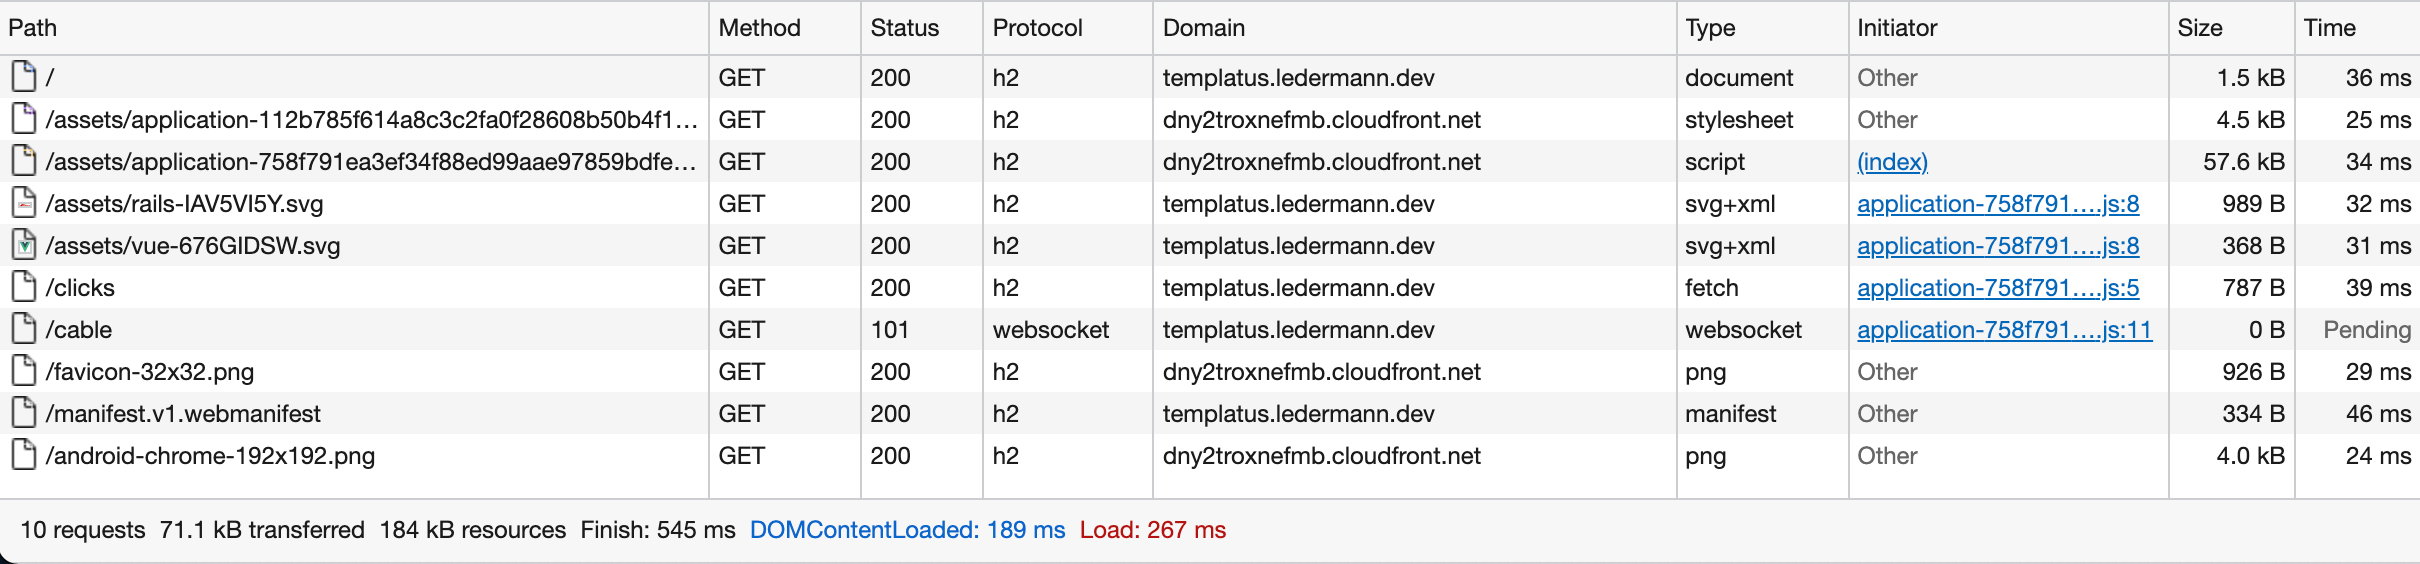
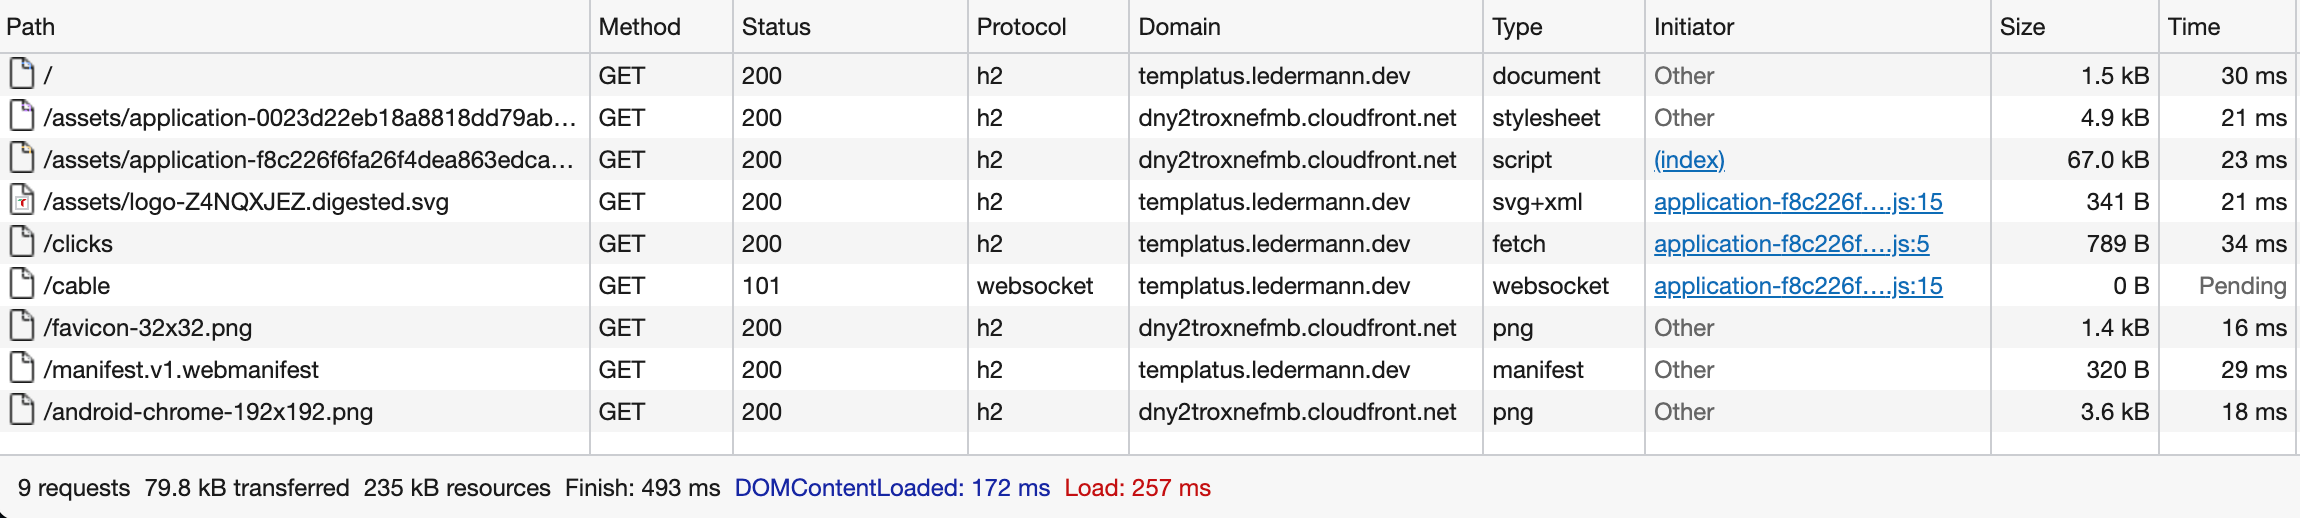
Readme: Cleanup and update metrics

diff --git a/README.md b/README.md
@@ -34,18 +34,18 @@ https://github.com/ledermann/templatus-hotwire/
 
 ### Development
 
-- [Puma-dev](https://github.com/puma/puma-dev) for using .test-domain and HTTPS in development
+- [Puma-dev](https://github.com/puma/puma-dev) for using `.test` TLD and `https` in development
 - [Foreman](https://github.com/ddollar/foreman) for starting up the application locally
 - [dotenv](https://github.com/bkeepers/dotenv) to load environment variables from .env into ENV
 - [TypeScript](https://www.typescriptlang.org/) for writing strongly-typed JavaScript
-- [Prettier](https://prettier.io/) for auto-formatting JavaScript and Ruby code in Visual Studio Code
+- [Prettier](https://prettier.io/) for auto-formatting TypeScript and Ruby code in Visual Studio Code
 
 ### Linting and testing
 
 - [RuboCop](https://rubocop.org/) for Ruby static code analysis
-- [ESLint](https://eslint.org/) for JavaScript static code analysis
 - [RSpec](https://rspec.info/) for Ruby testing
-- [Jest](https://jestjs.io/) for JavaScript unit testing
+- [ESLint](https://eslint.org/) for TypeScript static code analysis
+- [Jest](https://jestjs.io/) for TypeScript unit testing
 - [Cypress](https://www.cypress.io/) for E2E testing
 
 ### Deployment
@@ -55,7 +55,7 @@ https://github.com/ledermann/templatus-hotwire/
 - [GitHub Actions](https://docs.github.com/en/actions) for testing, linting, and building Docker image
 - [Dependabot](https://docs.github.com/en/code-security/supply-chain-security/keeping-your-dependencies-updated-automatically/about-dependabot-version-updates) configuration for updating dependencies (with auto-merge)
 - Ready for serving assets via CDN like CloudFront
-- [Honeybadger](https://www.honeybadger.io/) for error tracking in Ruby and JavaScript
+- [Honeybadger](https://www.honeybadger.io/) for error tracking in Ruby and TypeScript
 
 ### Production
 
@@ -91,7 +91,7 @@ https://github.com/rails/rails/pull/41994
 
 ### GTmetrix
 
-[![GTmetrix](docs/GTmetrix.png)](https://gtmetrix.com/reports/templatus.ledermann.dev/e5RxS9Iq/)
+[![GTmetrix](docs/GTmetrix.png)](https://gtmetrix.com/reports/templatus.ledermann.dev/44CRVSqF/)
 
 ### Check-your-website
 
@@ -180,7 +180,7 @@ $ node esbuild.config.js
 
 ### Network transfer
 
-Small footprint: The demo application transfers only **82 KB** of data on the first visit.
+Small footprint: The demo application transfers only **80 KB** of data on the first visit.
 
 ![Network](docs/network.png)
 
